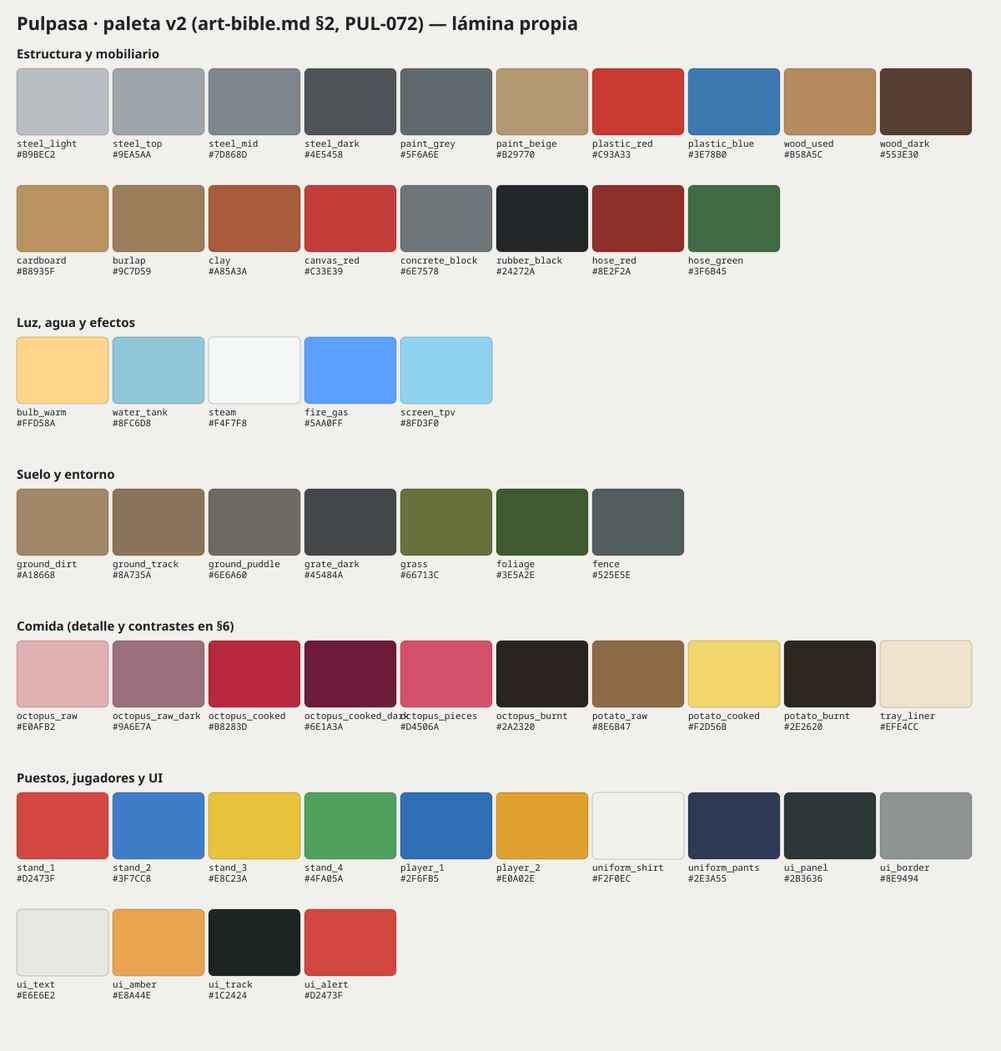
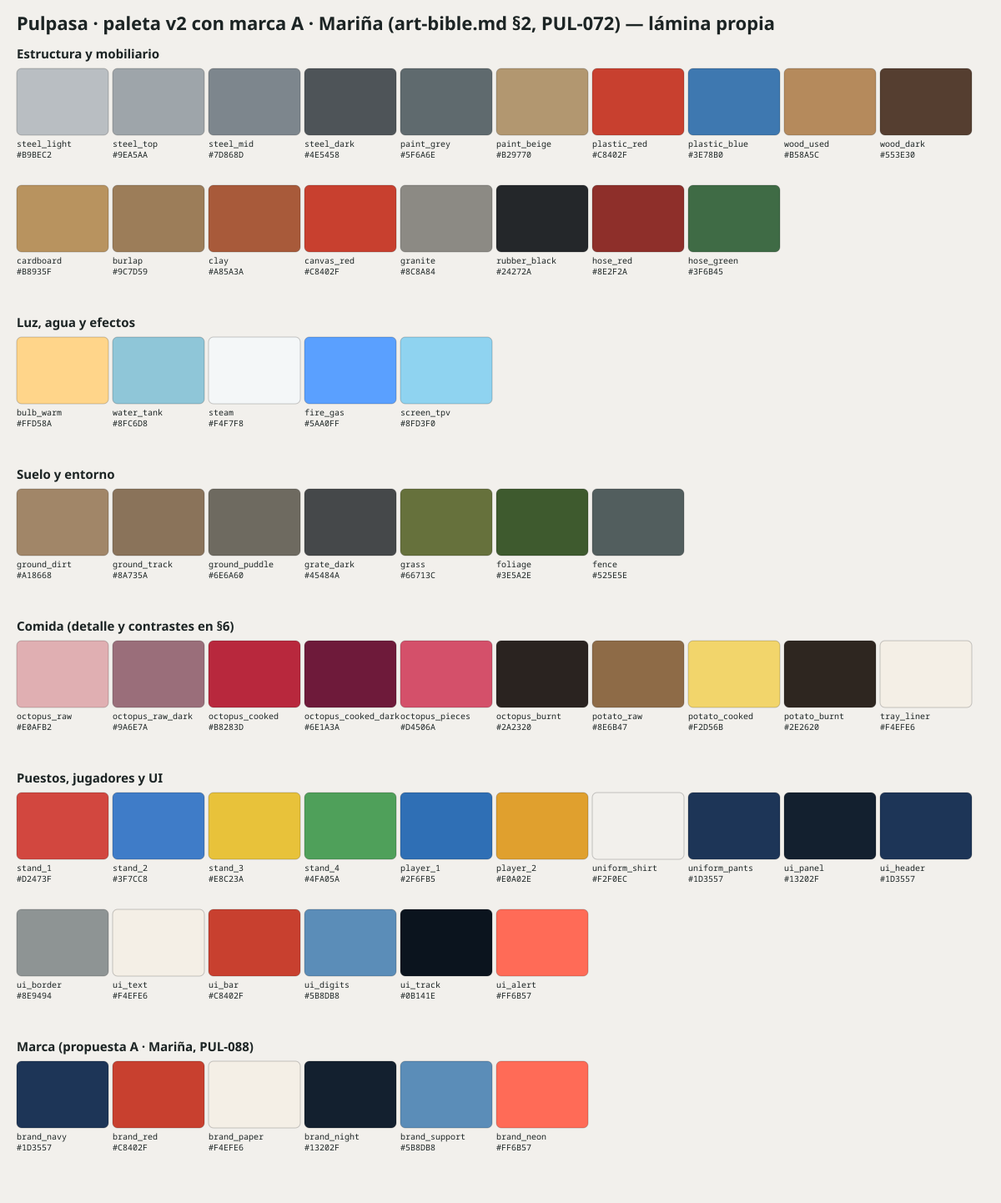
PUL-072: decisiones del responsable

diff --git a/docs/art/art-bible.md b/docs/art/art-bible.md
@@ -6,6 +6,12 @@ fija), D16 (solo licencias confirmadas), D18 (estación de condimentos y distint
 hecho en Blender por un agente con MCP) y D21 (marca **PulpaSA**). Si algo choca con
 `docs/design/decisions.md`, manda `decisions.md`.
 
+**Decisiones del responsable (2026-10-06)**, ya incorporadas: tono de **franquicia satírica** con raíz
+de romería gallega (§7); marca **propuesta A · Mariña** de [`brand.md`](brand.md) (PUL-088), con la
+paleta ajustada para que encaje (§2.7); muro del fondo de **granito gallego** (§1.4); **tilt-shift
+opcional**, apagado por defecto (§1.3); objetivo de **60 fps a 1080p en la RTX 3090** de desarrollo,
+sin máquina modesta de referencia (§4.3); comensales con **ropa de romería** (§1.4).
+
 Todas las fichas de la estética v2 (PUL-073..PUL-087) deben cumplirla. Los criterios medibles
 (medidas, triángulos, texturas, contrastes, píxeles) están en §2, §4 y §5 para que un test o una
 captura los comprueben.
@@ -42,8 +48,8 @@ es pequeño, macizo y un poco gastado, como si alguien lo hubiera usado todo el 
 **superficies cuentan historias**: acero cepillado con arañazos, pintura descascarillada en las aristas,
 plástico rojo con roces, madera clara gastada, arpillera, tierra apisonada con rodadas y charcos.
 
-Tono: caos cooperativo con humor; la «franquicia» PulpaSA montada en un campo de feria gallego
-(§7). El pilar de identidad gallega se mantiene con atrezo y vegetación (§1.4), no con el cobre de la v1.
+Tono (decidido): **franquicia satírica** con raíz de romería; la «franquicia» PulpaSA montada en un
+campo de feria gallego (§7). El pilar de identidad gallega se mantiene con atrezo y vegetación (§1.4), no con el cobre de la v1.
 
 Principios (por orden de prioridad):
 1. **Lo jugable se lee primero.** Silueta, color y estado de cada objeto con el que se interactúa se
@@ -103,6 +109,9 @@ Qué **no** se toma de la referencia:
 - La marca «McPULPO», el lema «American octopus franchise» y la combinación rojo/amarillo con
   diagonales del toldo: se sustituyen por PulpaSA (D21, §7).
 - Los textos en inglés de la UI (los textos siguen el idioma del juego).
+- El gris pizarra y el ámbar de la UI: se usan los colores de la marca (§2.6, §2.7); se conserva
+  la forma (paneles, reloj de 7 segmentos, barra).
+- El muro de bloques de hormigón: es de granito (§1.4).
 - Las patatas sueltas en el suelo jugable y la comida de atrezo en encimeras jugables (rompen §6.1).
 - Los charcos tan oscuros como un objeto (se aclaran, §5).
 
@@ -121,7 +130,7 @@ Qué **no** se toma de la referencia:
   la referencia para que la comida y las pegatinas sigan vivas.
 - **Tilt-shift** (desenfoque de profundidad de campo arriba y abajo de la pantalla): **opcional y
   desactivado por defecto**; si se activa, la banda nítida cubre todo el perímetro de encimeras y los
-  cuatro kioscos. Valor en `.tres` (PUL-073).
+  cuatro kioscos, y se apaga si resta legibilidad. Valor en `.tres` (PUL-073), apagado por defecto (decidido).
 - El arte no incluye luces ni cámaras en los `.glb` (sigue la regla de la v1, comprobada por
   `test_assets_models.gd`).
 
@@ -133,8 +142,12 @@ atrezo de fondo, sin tocar lo jugable:
 - **Barro y madera**: **cuncas** y jarras de barro (vino), platos de madera en las mesas de los
   comensales, barriles y bancos corridos.
 - **Romería**: banderines y guirnaldas de bombillas, mesas largas con mantel de papel.
-- **Granito** como alternativa al muro de bloques (pregunta abierta §10: la referencia usa bloques
-  de hormigón).
+- **Granito** (decidido): el muro del fondo es de **sillares de granito gallego** gris claro con
+  mica, juntas oscuras y musgo abajo, en lugar de los bloques de hormigón de la referencia.
+- **Comensales** (decidido): figuras **estáticas** con ropa de romería —boinas, pañuelos, chalecos,
+  rebecas— en tonos apagados de Z3 (§5); nunca con `player_*`, `stand_*` ni el azul marino de la
+  marca como color principal, para que no se lean como cocineros ni puestos. Comen pulpo en platos
+  de madera y beben en cuncas; algunos con vaso de PulpaSA (guiño satírico).
 
 ## 2. Paleta v2 (hex sRGB)
 
@@ -156,15 +169,15 @@ Jerarquía: **lo jugable saturado y cálido** (comida, bandejas, pegatinas, told
 | `steel_dark` | `#4E5458` | Cuerpo de kiosco, rejillas, sombras de acero |
 | `paint_grey` | `#5F6A6E` | Metal pintado (postes, marcos); desconcha a `steel_mid` |
 | `paint_beige` | `#B29770` | Metal pintado del generador y cajas eléctricas |
-| `plastic_red` | `#C93A33` | **Bandejas**, toldo grande, tapas de tanque |
+| `plastic_red` | `#C8402F` | **Bandejas**, tapas de tanque (= acento pimentón de la marca, §2.7) |
 | `plastic_blue` | `#3E78B0` | Tanque de pulpos, bombona azul |
 | `wood_used` | `#B58A5C` | Tablas de corte, cajas de fruta, bancos |
 | `wood_dark` | `#553E30` | Barriles, vigas, mangos de cuchillo |
 | `cardboard` | `#B8935F` | Cajas de cartón (bajo encimeras, fondo) |
 | `burlap` | `#9C7D59` | Sacos de patatas |
 | `clay` | `#A85A3A` | Cuncas, jarras y cuencos de barro |
-| `canvas_red` | `#C33E39` | Lona del toldo grande |
-| `concrete_block` | `#6E7578` | Muro de bloques (juntas `#4A4F4C` con musgo `#5E6B3A`) |
+| `canvas_red` | `#C8402F` | Rayas rojas del toldo grande (alternan con `brand_paper`) |
+| `granite` | `#8C8A84` | Muro de sillares de granito (moteado de mica `#B5B2AA` y `#4F4D49`, juntas `#5E5C57`, musgo `#5E6B3A`) |
 | `rubber_black` | `#24272A` | Cables, mangueras de agua, neumáticos |
 | `hose_red` / `hose_green` | `#8E2F2A` / `#3F6B45` | Mangueras de gas de los cocedores |
 
@@ -203,7 +216,7 @@ Jerarquía: **lo jugable saturado y cálido** (comida, bandejas, pegatinas, told
 | `potato_raw` | `#8E6B47` | Patata cruda con piel |
 | `potato_cooked` | `#F2D56B` | Cachelo cocido (borde `#D8A93C`) |
 | `potato_burnt` | `#2E2620` | Cachelo quemado |
-| `tray_liner` | `#EFE4CC` | Papel antigrasa dentro de la bandeja |
+| `tray_liner` | `#F4EFE6` | Papel salvamanteles dentro de la bandeja (= `brand_paper`; patrón de símbolos al 15 %, §6.4) |
 
 ### 2.5 Condimentos (pegatinas, dispensadores y etiquetas)
 
@@ -223,16 +236,50 @@ exactamente estos valores.
 | `player_1` | `#2F6FB5` | Gorra/delantal J1 y su aro (igual que la v1 y PUL-035) |
 | `player_2` | `#E0A02E` | Gorra/delantal J2 y su aro |
 | `uniform_shirt` | `#F2F0EC` | Camiseta |
-| `uniform_pants` | `#2E3A55` | Pantalón azul marino |
-| `ui_panel` | `#2B3636` | Fondo de tickets y HUD (alfa 0,92) |
+| `uniform_pants` | `#1D3557` | Pantalón (= `brand_navy`) |
+| `ui_panel` | `#13202F` | Cuerpo de tickets y HUD (= `brand_night`, alfa 0,92) |
+| `ui_header` | `#1D3557` | Cabecera de ticket y paneles con la insignia (= `brand_navy`) |
 | `ui_border` | `#8E9494` | Borde de panel (2–3 px a 1080p) |
-| `ui_text` | `#E6E6E2` | Texto principal (contraste 10:1 sobre el panel) |
-| `ui_amber` | `#E8A44E` | Títulos, barra de paciencia, dígitos (5,9:1 sobre el panel) |
-| `ui_track` | `#1C2424` | Fondo de barras |
-| `ui_alert` | `#D2473F` | Paciencia baja / aviso |
+| `ui_text` | `#F4EFE6` | Texto principal (= `brand_paper`; 14,4:1 sobre el panel) |
+| `ui_bar` | `#C8402F` | Barra de paciencia (= `brand_red`; 3,3:1 sobre el panel) |
+| `ui_digits` | `#5B8DB8` | Reloj de 7 segmentos y cifras del HUD (= `brand_support`; 4,7:1) |
+| `ui_track` | `#0B141E` | Fondo de barras |
+| `ui_alert` | `#FF6B57` | Paciencia baja: la barra pasa a neón y parpadea (5,9:1); nunca solo color |
 
-Los colores de **marca** (rojo, crema, etc.) los fija PUL-088 en [`brand.md`](brand.md); deben convivir
-con esta tabla (§7) y no reutilizar `player_1/2` ni los cuatro `stand_*` como color principal.
+### 2.7 Marca (propuesta A · Mariña, PUL-088)
+
+Colores de [`brand.md`](brand.md), elegidos por el responsable; esta biblia los adopta tal cual y
+**reajusta la paleta v2 alrededor de ellos** (no al revés):
+
+| Nombre | Hex | Rol en la marca | Dónde entra en la v2 |
+|---|---|---|---|
+| `brand_navy` | `#1D3557` | Principal | Símbolo y «Pulpa»; pantalón del uniforme; cabecera de UI; marco de cartel y pizarras |
+| `brand_red` | `#C8402F` | Acento (pimentón) | Placa «SA»; **bandejas** (`plastic_red`), rayas del toldo (`canvas_red`), visera de gorra, barra de paciencia |
+| `brand_paper` | `#F4EFE6` | Papel | Papel de bandeja (`tray_liner`), rayas claras del toldo, vasos, texto de UI |
+| `brand_night` | `#13202F` | Noche | Caja del cartel luminoso, cuerpo de tickets/HUD |
+| `brand_support` | `#5B8DB8` | Apoyo | Patrón del papel de bandeja (al 15 %), cifras del HUD |
+| `brand_neon` | `#FF6B57` | Neón | Tubo del cartel luminoso (emisivo), aviso de paciencia baja |
+
+Tipografía: **Montserrat** Black (logotipo) y Bold (lema y textos de UI), OFL; el reloj de 7
+segmentos usa una fuente de display libre aparte (PUL-086). Lema: **«Franquicia galega de polbo»**.
+
+Ajustes hechos para que la marca encaje sin romper §6:
+- Los rojos de plástico y lona se unifican en `brand_red` (antes `#C93A33`/`#C33E39`, diferencia
+  imperceptible); papel/bandeja sigue en **4,3:1**.
+- El papel de la bandeja pasa a `brand_paper`; rodajas sobre él **3,6:1**. El patrón de símbolos se
+  pinta al **15 %** (no al 30 % de `brand.md`): al 30 % las rodajas bajan a 2,6:1; al 15 % el patrón
+  queda en 1,16:1 contra el papel y las rodajas en ≥ 3,0:1. Símbolos ≥ 0,06 m (sin ruido fino, §3.2).
+- La UI abandona el gris pizarra y el ámbar de la referencia por noche/marino/rojo/apoyo de la marca,
+  con los contrastes de la tabla de §2.6.
+- **Uniforme**: `brand.md` pone gorra y delantal en marino, pero gorra y delantal identifican al
+  jugador (`player_1/2`, §6.5). Manda la legibilidad: copa de gorra y peto del delantal en el color del
+  jugador; marino en pantalón, cinta del delantal y ribetes; visera en `brand_red`; insignia compacta
+  y logotipo en `brand_paper`. `player_1` (`#2F6FB5`) y `brand_navy` se separan 2,4:1 y por saturación.
+- `stand_1` (`#D2473F`) es casi igual que `brand_red`: no pasa nada porque el puesto se identifica por
+  número y posición, pero **ningún toldillo de kiosco lleva el logo** sobre la lona (va en la caja).
+
+Reglas de convivencia: el color **principal** de marca (`brand_navy`) no se usa como color de jugador
+ni de puesto; nada de «Mc», arcos ni amarillo junto a `brand_red` en piezas de marca (PUL-088).
 
 ## 3. Materiales (biblioteca v2, la crea PUL-074)
 
@@ -253,7 +300,7 @@ materiales de aquí (más su atlas propio, §3.3). Nombres `mat_<nombre>`:
 | `mat_cardboard` | `cardboard` | 0,85 | 0 | Ondulado en el canto, cinta y garabatos sin texto legible |
 | `mat_clay` | `clay` | 0,75 | 0 | Vidriado parcial más claro en el borde |
 | `mat_canvas` | `canvas_red` / toldillos | 0,85 | 0 | Trama de lona, costuras, borde de festón más oscuro |
-| `mat_concrete` | `concrete_block` | 0,9 | 0 | Bloques con juntas y musgo en la parte baja |
+| `mat_granite` | `granite` | 0,85 | 0 | Sillares irregulares de granito, moteado grueso de mica (≥ 4 px), juntas y musgo abajo (Z3: el moteado no afecta a lo jugable) |
 | `mat_rubber` | `rubber_black`, mangueras | 0,7 | 0 | Liso |
 | `mat_ground_dirt` | `ground_dirt` | 0,95 | 0 | Tierra con piedrecitas pintadas, rodadas y zonas pisadas (`ground_track`), charcos con roughness 0,1 |
 | `mat_grass` / `mat_foliage` | `grass` / `foliage` | 0,9 | 0 | Pintado, hojas por tarjetas con alfa en el fondo |
@@ -343,7 +390,8 @@ según decida PUL-074 (el test exige materiales embebidos).
 
 - **Objetivo**: **60 fps estables a 1920×1080** en la máquina de desarrollo (Forward+, RTX 3090,
   24 hilos) con todos los efectos de §1.3 activos; **tiempo de frame de GPU ≤ 12 ms** de media y
-  ≤ 16,6 ms en el percentil 99 durante una partida completa, para dejar margen a equipos más modestos.
+  ≤ 16,6 ms en el percentil 99 durante una partida completa. No se fija una máquina modesta de
+  referencia para la alpha (decidido): el margen de 12 ms es solo higiene.
 - Límites de escena: **≤ 1 000 draw calls**, ≤ 60 materiales distintos en pantalla, ≤ 8 luces
   dinámicas (§1.3), ≤ 2 con sombra además de la direccional.
 - Si no se cumple, el orden de recorte es: tilt-shift → sombras de luces puntuales → SSAO a calidad
@@ -408,7 +456,7 @@ Cámara (`camera_rig.tscn`, sin cambios): ortográfica, `size = 12.74` m, inclin
 | Extra | — | — | Humo de PUL-069 |
 
 Relaciones: crudo/cocido **3,2:1**, cocido/quemado **2,5:1**, crudo/quemado **8,1:1**. Rodajas
-`#D4506A` con corte `#F4C6CC`, ≈ 0,05 m, sobre `tray_liner`: **3,2:1**.
+`#D4506A` con corte `#F4C6CC`, ≈ 0,05 m, sobre `tray_liner`: **3,6:1** (≥ 3,0:1 sobre el patrón).
 El crudo sobre acero (`steel_top`) solo da 1,3:1: se separa por saturación (rosa frente a gris) y por
 el contorno de ventosas `#9A6E7A`; dentro del tanque, el agua no baja su luminancia más de un 15 %.
 
@@ -420,13 +468,15 @@ el contorno de ventosas `#9A6E7A`; dentro del tanque, el agua no baja su luminan
 | Forma | Patata **entera**, ovalada | **Partida** en 2–3 trozos, caras de corte claras | Trozos encogidos y agrietados |
 
 Relaciones: crudo/cocido **3,3:1**, cocido/quemado **10,3:1**, crudo/quemado **3,1:1** (más forma).
-El cocido dentro de la bandeja se lee sobre `tray_liner` por **saturación y borde** (solo 1,15:1 de
+El cocido dentro de la bandeja se lee sobre `tray_liner` por **saturación y borde** (solo 1,26:1 de
 luminancia): el borde `#D8A93C` de 0,01 m es obligatorio.
 
 ### 6.4 Bandejas (sustituyen a los platos de madera) y pegatinas
 
-- **Bandeja de plástico rojo** `plastic_red` con **papel antigrasa** `tray_liner` en el fondo: el papel
-  existe porque el pulpo cocido sobre rojo (1,2:1) no se leería. Liner/bandeja: **4,0:1**.
+- **Bandeja de plástico rojo** `plastic_red` (`brand_red`) con **papel salvamanteles** `tray_liner`
+  (`brand_paper`) en el fondo: el papel existe porque el pulpo cocido sobre rojo (1,2:1) no se leería.
+  Papel/bandeja: **4,3:1**. El papel lleva el símbolo de la marca repetido en `brand_support` **al 15 %**
+  (§2.7), nunca más fuerte. `brand.md` sugiere un marco marino: no se usa, la bandeja es roja entera.
 - **Tres tallas distinguibles por forma**, no solo por tamaño (proporción de diámetro de la v1,
   0,34 : 0,42 : 0,49): pequeña **redonda**, mediana **ovalada**, grande **rectangular con asas**.
   Se mantiene el aro de color por talla de la v1 como banda fina en el canto (azul, verde, rojo) para
@@ -444,7 +494,8 @@ luminancia): el borde `#D8A93C` de 0,01 m es obligatorio.
 - **Kioscos**: toldillo `stand_1..4` y número negro en disco blanco ≥ 0,25 m en el frente (Z2);
   `%OrderLabel` del motor sigue mostrando el `#id` de la comanda encima. El TPV no puede ser más
   llamativo que el número.
-- **Jugadores**: gorra y delantal `player_1`/`player_2`, aro del mismo color (PUL-035); rasgo de forma
+- **Jugadores**: copa de gorra y peto del delantal `player_1`/`player_2`, aro del mismo color (PUL-035);
+  pantalón y ribetes `brand_navy`, visera `brand_red` (§2.7); rasgo de forma
   para daltónicos (v1 §3.1-6: J1 gorra redonda, J2 gorro alto, o el que fije PUL-075). La camiseta
   blanca debe destacar sobre el suelo (`uniform_shirt` / `ground_dirt`: 3,0:1).
 - **Cocedores**: abiertos o con tapa levantada para ver lo que cuece desde la cámara (plazas
@@ -457,31 +508,30 @@ luminancia): el borde `#D8A93C` de 0,01 m es obligatorio.
 ## 7. Marca PulpaSA (D21)
 
 La identidad (logotipo, símbolo, colores de marca, versiones) la diseña **PUL-088** en
-[`docs/art/brand.md`](brand.md); esta biblia solo fija **dónde aparece y con qué reglas**. Mientras
-`brand.md` no exista, los assets dejan el hueco del logo con un material provisional `mat_brand_placeholder`.
+[`docs/art/brand.md`](brand.md); el responsable eligió la **propuesta A · Mariña** (colores en §2.7).
+Las fichas usan los SVG/PNG de `art/brand/propuesta_a/` y `godot/assets/textures/brand/propuesta_a/`.
+Esta biblia fija **dónde aparece y con qué reglas**.
 Punto de partida permitido: `godot/assets/textures/logo/PulpaSA.png` (propio, del prototipo).
 
 | Lugar | Asset / ficha | Versión del logo | Regla |
 |---|---|---|---|
-| Cartel luminoso sobre el toldo | Entorno, PUL-085 | Horizontal, emisivo | El elemento más llamativo del fondo, pero por encima del plano de juego y sin tapar la cocina |
-| Toldo grande | Entorno, PUL-085 | Horizontal grande sobre `canvas_red` | Sin diagonales rojo/amarillo de la referencia |
-| Uniformes (gorra, delantal) | Personaje, PUL-075 | Compacta / símbolo, monocromo | Pequeño; no cambia el color de gorra/delantal que identifica al jugador |
+| Cartel luminoso sobre el toldo | Entorno, PUL-085 | Horizontal sin lema; caja `brand_night`, tubo `brand_neon`, «SA» en blanco | El elemento más llamativo del fondo, pero por encima del plano de juego y sin tapar la cocina |
+| Toldo grande | Entorno, PUL-085 | Horizontal con lema «Franquicia galega de polbo», sobre placa `brand_paper` con borde marino | Rayas anchas `canvas_red`/`brand_paper` con faldón festoneado; el logo nunca directamente sobre las rayas; sin diagonales ni amarillo |
+| Uniformes (gorra, delantal) | Personaje, PUL-075 | Compacta en la gorra; símbolo + logotipo en `brand_paper` en el delantal | Pequeño; no cambia el color de jugador de gorra y peto (§2.7) |
 | Bandejas | PUL-077 | Símbolo en el canto frontal-inferior | Nunca en la zona de pegatinas ni en el fondo de la bandeja |
 | Kioscos de entrega | PUL-083 | Compacta en la caja de llevar o el frente | Más pequeña que el número del puesto |
 | Vasos y servilleteros de los comensales | Entorno, PUL-085 | Símbolo | Atrezo Z3 |
 | Pizarras de menú | Entorno, PUL-085 | Horizontal pequeña | Sin texto inventado legible aparte de la marca |
 | Tickets, HUD y menús | UI, PUL-086 | Compacta o monocromo | En cabecera de menús y pantalla de título; en tickets como mucho un símbolo pequeño |
 
-Reglas de convivencia: el color principal de marca no puede ser `player_1/2` ni un `stand_*`, para que
-no se confunda con un jugador o un puesto; nada de «Mc», arcos ni la combinación rojo/amarillo de
-una cadena conocida (restricción de PUL-088).
+Reglas de convivencia: ver §2.7.
 
-**Tono propuesto** (lo decide el responsable, pregunta en Evidence de PUL-072): **franquicia satírica
-con raíz de romería**. «PulpaSA» se lee como *Pulpa, S.A.*: una sociedad anónima que ha convertido la
+**Tono (decidido por el responsable el 2026-10-06): franquicia satírica con raíz de romería**. «PulpaSA» se lee como *Pulpa, S.A.*: una sociedad anónima que ha convertido la
 pulpería de feria en franquicia (uniformes, TPV, cámaras de vigilancia, cartel luminoso, «empregado do
 mes»), pero montada en un campo de romería gallego con barro, fentos y cuncas. El humor sale del choque
-entre lo corporativo y lo tradicional; la alternativa es una **romería con marca** (pulpería
-tradicional con logo pintado a mano, sin guiños corporativos).
+entre lo corporativo y lo tradicional: el lema «Franquicia galega de polbo» con rótulo de neón sobre un
+muro de granito, cámaras de vigilancia apuntando a unos comensales con boina. La sátira va en el
+atrezo de fondo y en los textos de marca, nunca en lo jugable.
 
 ## 8. Tabla asset → cambio (PUL-073..PUL-086)
 
@@ -497,19 +547,19 @@ de `level_01`.
 | PUL-076 | Pulpo, cachelos (crudo/cocido/quemado), rodajas | **Rehacer** | Colores y formas de §6.2/§6.3, más detalle de ventosas y cortes, sin ruido; mismos nombres de malla | — | 1 500 c/u, atlas 512² | PUL-074 |
 | PUL-077 | Platos de madera (3 tallas) | **Rehacer** | Bandejas de plástico rojo con papel, tres formas (§6.4), relleno por capas, logo en canto | — | 2 000 c/u, atlas 512² | PUL-074, PUL-076, PUL-088 |
 | PUL-078 | Caldeiros de cobre con fogón | **Rehacer** | Cocedores cilíndricos de acero con quemador de gas, tapa levantada, piloto; boca abierta para ver las plazas | Mangueras de gas roja/verde al suelo, bombona junto al muro | 6 000 (cada cocedor + quemador) | PUL-074 |
-| PUL-079 | Arcón de pulpo | **Rehacer** | Tanque azul de plástico con agua `mat_glass_water`, burbujas y pulpos crudos dentro; misma huella | Mangueras de agua, cartel pequeño sin texto inventado | 6 000 | PUL-074, PUL-076 (pulpo crudo) |
+| PUL-079 | Arcón de pulpo | **Rehacer** | Tanque azul de plástico con agua `mat_glass_water`, burbujas y pulpos crudos dentro (el modelo crudo de PUL-076); misma huella | Mangueras de agua, cartel pequeño sin texto inventado | 6 000 | PUL-074, **PUL-076** (pulpos del tanque: añadir a `deps` de la ficha) |
 | PUL-080 | Cesta/cachelera | **Rehacer** | 1–2 sacos de arpillera abiertos con patatas crudas de PUL-076, cesto opcional | — | 6 000 | PUL-074, PUL-076 |
 | PUL-081 | Estantería de platos | **Rehacer** | Rack de acero con pilas de bandejas por talla delante de cada spawner | — | 6 000 (sin contar las bandejas instanciadas) | PUL-074, PUL-077 |
 | PUL-082 | Estación de condimentos (dispensadores, cuenco de cachelos) | **Rehacer** | Mostrador de acero, botes/latas de pimentón dulce y picante, salero, aceitera, cuenco de barro de cachelos, etiquetas de color en el frente | Tabla de corte y cuchillo en la franja trasera (Z1) | 6 000 el conjunto | PUL-074 |
 | PUL-083 | Puestos de entrega 1–4 | **Rehacer** | Kiosco de acero oscuro, toldillo `stand_1..4` con festón, TPV, número en disco, logo compacto | Caja de llevar con faja de marca | 6 000 c/u (malla común + 4 materiales) | PUL-074, PUL-088 |
 | PUL-084 | Encimeras de madera (kit) y suelo de la cocina | **Rehacer** | Encimeras de acero con tornillos, cajones/puertas, balda con cajas de cartón; tablero `steel_top` limpio (Z1) | Rejillas de desagüe, utensilios en franja trasera, cajas de cartón en baldas | 1 500 por módulo | PUL-074, PUL-073 |
-| PUL-085 | Entorno de romería (carpa, cartel, mesas, decoración) | **Rehacer + nuevo** | Suelo de tierra con rodadas/charcos (Z0, decals), muro de bloques (o granito, §10), toldo rojo y cartel luminoso PulpaSA, valla | Tanques de gas, generador, bombonas, cables, barriles, cajas, sacos, carballos y fentos, mesas largas con comensales **estáticos**, cuncas, postes con guirnaldas de bombillas, pizarras de menú, cámaras de vigilancia, banderines. Dividido en `ground`, `tent`, `back`, `props` | 80 000 el entorno | PUL-074, PUL-073, PUL-088 |
-| PUL-086 | HUD, tickets y menús | **Retexturizar (UI)** | Paneles `ui_panel` con borde, título ámbar, reloj de 7 segmentos (fuente libre OFL), barra ámbar, pegatinas de PUL-060; HUD compacto | Fuentes OFL (registro del coordinador) | — | PUL-088 |
+| PUL-085 | Entorno de romería (carpa, cartel, mesas, decoración) | **Rehacer + nuevo** | Suelo de tierra con rodadas/charcos (Z0, decals), muro de **granito** (§1.4), toldo a rayas `canvas_red`/`brand_paper` y cartel luminoso PulpaSA (§7), valla | Tanques de gas, generador, bombonas, cables, barriles, cajas, sacos, carballos y fentos, mesas largas con comensales **estáticos con ropa de romería** (§1.4), cuncas, postes con guirnaldas de bombillas, pizarras de menú, cámaras de vigilancia, banderines. Dividido en `ground`, `tent`, `back`, `props` | 80 000 el entorno | PUL-074, PUL-073, PUL-088 |
+| PUL-086 | HUD, tickets y menús | **Retexturizar (UI)** | Paneles `ui_panel` (noche) con cabecera `ui_header` (marino) e insignia compacta, textos en Montserrat Bold, reloj de 7 segmentos en `ui_digits` (fuente libre OFL), barra `ui_bar` con aviso `ui_alert`, pegatinas de PUL-060; HUD compacto | Fuentes OFL: Montserrat y la de display (registro del coordinador) | — | PUL-088 |
 
 Orden recomendado: PUL-073 y PUL-074 primero (luz y materiales fijan el juicio); después
 PUL-076 → PUL-077 → PUL-081 (comida, bandeja, rack); PUL-075; estaciones PUL-078/079/080/082/083;
-por último PUL-084 y PUL-085 (lo más grande) y PUL-086 en paralelo cuando exista `brand.md`.
-PUL-079 depende también de PUL-076 (pulpos dentro del tanque): conviene añadirlo a su `deps`.
+por último PUL-084 y PUL-085 (lo más grande) y PUL-086 en paralelo.
+PUL-079 depende también de PUL-076 (pulpos dentro del tanque); su ficha debe llevarlo en `deps`.
 
 ## 9. Lista de comprobación por asset (reviewer y asset-pipeline)
 
@@ -525,12 +575,11 @@ PUL-079 depende también de PUL-076 (pulpos dentro del tanque): conviene añadir
 - [ ] Captura antes/después desde la cámara de `level_01` junto a la referencia y render del `.blend`
 - [ ] Licencia propia anotada (a través del coordinador)
 
-## 10. Preguntas abiertas
+## 10. Decisiones cerradas y preguntas abiertas
 
-- **Tono de la marca**: franquicia satírica con raíz de romería (propuesta) o romería con marca (§7).
-- **Muro del fondo**: bloques de hormigón como la referencia o **granito** gallego (más identidad).
-- **Equipo mínimo**: la medición es en una RTX 3090; ¿hay que fijar una máquina de referencia modesta
-  (p. ej. gráfica integrada) para la alpha? Cambiaría §4.
-- **Tilt-shift**: se deja desactivado por defecto; ¿lo quiere el responsable como opción de ajustes?
-- **Comensales estáticos**: ¿con el uniforme de cliente genérico o con trajes de romería (boina,
-  pañuelo)? Afecta solo a PUL-085.
+Cerradas por el responsable el 2026-10-06: tono (franquicia satírica, §7), marca (propuesta A ·
+Mariña, §2.7), muro de granito (§1.4), tilt-shift opcional y apagado por defecto (§1.3), rendimiento en
+la RTX 3090 sin máquina modesta (§4.3), comensales con ropa de romería (§1.4).
+
+Abiertas: ninguna para lanzar PUL-073..PUL-086. Lo que salga al medir (PUL-087) se resuelve con el
+orden de recorte de §4.3.

diff --git a/docs/backlog/PUL-072-biblia-de-arte-v2.md b/docs/backlog/PUL-072-biblia-de-arte-v2.md
@@ -78,10 +78,21 @@ Reescribe `docs/art/art-bible.md` (v2; conserva la v1 como `docs/art/art-bible-v
   de PUL-079 (pulpos dentro del tanque).
 - AC3: §7 enlaza `docs/art/brand.md` (PUL-088, en paralelo; aún no existe en esta rama) y fija dónde
   aparece la marca y en qué versión (cartel, toldo, uniformes, bandejas, kioscos, menús, UI).
-- **Pregunta de tono para el responsable**: ¿PulpaSA como **franquicia satírica con raíz de romería**
-  (propuesta: «Pulpa, S.A.», uniformes, TPV, cámaras, cartel luminoso, en un campo de feria gallego con
-  barro, fentos y cuncas) o como **romería con marca** (pulpería tradicional con logo pintado, sin guiños
-  corporativos)?
-- Otras decisiones del responsable (§10): muro de bloques o granito; si se fija una máquina de
-  referencia modesta además de la RTX 3090; tilt-shift como opción de ajustes; vestuario de los comensales.
-- **Gate humano** antes de lanzar PUL-073..PUL-086.
+- **Decisiones del responsable (2026-10-06), incorporadas en la biblia** (ronda 2):
+  1. Tono: **franquicia satírica** PulpaSA con raíz de romería gallega (§1.1, §7).
+  2. Marca: **propuesta A · Mariña** de `docs/art/brand.md` (PUL-088): nueva §2.7 con sus colores;
+     `plastic_red`/`canvas_red` → `brand_red` `#C8402F`, `tray_liner` → `brand_paper` `#F4EFE6`,
+     pantalón → `brand_navy`, UI en noche/marino/rojo/apoyo con Montserrat. Contrastes recalculados:
+     papel/bandeja 4,3:1, rodajas/papel 3,6:1, patrón de símbolos al 15 % (no al 30 % de brand.md, que
+     bajaba las rodajas a 2,6:1), texto UI 14,4:1, cifras 4,7:1, barra 3,3:1, aviso 5,9:1. Desvíos de
+     brand.md por legibilidad: gorra y peto siguen en color de jugador (marino solo en pantalón y
+     ribetes) y la bandeja es roja entera (sin marco marino).
+  3. Muro de **granito gallego** (`granite`, `mat_granite`; §1.4, PUL-085).
+  4. **Tilt-shift opcional**, apagado por defecto (§1.3); **60 fps a 1080p en la RTX 3090**, sin máquina
+     modesta de referencia (§4.3).
+  5. Comensales: **estáticos con ropa de romería** (boinas, pañuelos, chalecos) en tonos apagados, sin
+     colores de jugador, puesto ni marino de marca (§1.4).
+- Tabla §8: PUL-079 depende también de PUL-076 (pulpos del tanque); el coordinador debe añadirlo a los
+  `deps` de la ficha PUL-079 (fuera de mis `owns`).
+- Paleta regenerada con la marca: `docs/art/moodboard-v2.svg` y `docs/evidence/PUL-072/moodboard-v2.png`.
+- Sin preguntas abiertas para lanzar PUL-073..PUL-086 (§10). **Gate humano** antes de lanzarlas.
